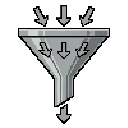
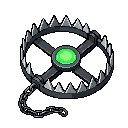
Refine flagship + lock house-style anchor; keep reference art local
- Chokepoint flagship: swap to the cartridge-style-anchored bear trap (cleaner
  single-colour outline, two-step cel shading, higher contrast, more retro feel
  and more cohesive with the cartridges). Caption already aligned to the trap.
- Spec: codify the cartridge's rendering traits as the canonical house-style
  anchor (section 1) and add the style-influences note (era/feel, originals only).
- Reference art: gitignore design/refs/ and untrack the prior committed refs so
  the copyrighted inspiration sheets stay local-only, never committed or published.

diff --git a/design/pixel-icon-spec.md b/design/pixel-icon-spec.md
@@ -17,6 +17,13 @@ in progress.**
 These rules are what make the set read as *one family* and become recognizable — the point of
 "original to the site, referenced by others."
 
+- **House-style anchor (match the cartridges):** every icon's *rendering* should match the section
+  cartridges in `assets/img/pixel/cartridges/` — **bold single-colour black outline**, simple
+  **two-step cel shading** (flat fill + one shadow + one highlight), **high contrast**, **crisp
+  chunky pixels**, clean readable forms. Prompt with these traits so the whole set stays one family.
+  (Match their *rendering*, not the cartridge label/shape.) Validated on the chokepoint flagship —
+  the anchored version read cleaner and more cohesive than free-form prompting, so this is the
+  default for this site and other projects.
 - **Canvas:** concept icons `32×32` native (export larger only if detail demands, in 16px steps).
   Cartridge stickers `32×24` (fills the wider label window). Boot mark `96×64`.
 - **Palette:** pull from `assets/css/tokens.css`. Max **3–4 colors per icon** + transparent bg.
@@ -90,3 +97,26 @@ concept pixel art → short explanation → real screenshot/evidence → caption
 4. Concepts: drop into a post via the include; verify in-context.
 5. Add the finished set to `CONTENT.md` as the published index (filename + one-line meaning) so the
    icons are reusable and citable — the documentation is what lets others reference them.
+
+---
+
+## 5. Style influences (era + feel, NOT characters)
+
+The house look is inspired by the classic 16-bit console + arcade sprite art the author grew up on
+(SNES platformers, early-90s fighters, run-and-gun action). We emulate the **qualities**, never the
+characters — every generated mark is an original (see the attack-chain creature: an original
+ball-and-chain enemy that evokes the era, not a copy of any specific game's sprite). Reference
+sheets, if kept, stay **local and gitignored** — they are mood reference, never reproduced and
+never published.
+
+Qualities to carry into original icons:
+- **Disciplined limited palette** — a few well-chosen hues per icon, strong value contrast.
+- **Bold 1–2px outline**, mostly single-colour, with clean cel shading (flat fill + one shadow +
+  one highlight). No gradients, no anti-aliasing.
+- **Confident, readable silhouette** — the shape reads instantly at small size.
+- **Expressive energy** — dynamic angles; for effect/FX icons, a bright cyan/white core fading to
+  the edge, like classic projectile and energy effects.
+- **Chunky, deliberate pixels** — chunkier reads more nostalgic than high-res-detailed.
+
+Hard rule: inspiration informs *style* (palette, line weight, shading, pose energy). It never
+authorises reproducing or tracing a specific copyrighted character or sprite.

diff --git a/_posts/2026-06-01-detection-chokepoints-where-to-start.md b/_posts/2026-06-01-detection-chokepoints-where-to-start.md
@@ -19,7 +19,7 @@ lose every time someone changes a filename.
 So I built something to fix where I start. It's called **Detection Chokepoints**, and it's live:
 [iimp0ster.github.io/detection-chokepoints](https://iimp0ster.github.io/detection-chokepoints/).
 
-{% include post-pixel-art.html src="/assets/img/pixel/concepts/chokepoint.png" alt="A funnel where many attack paths converge down to a single point" caption="A chokepoint: every variant funnels through the one step the attacker can't avoid." %}
+{% include post-pixel-art.html src="/assets/img/pixel/concepts/chokepoint.png" alt="A steel bear trap with a glowing trigger plate" caption="A chokepoint: the one step the attacker can't avoid — so it's where you catch them in the act." %}
 
 ## The lesson hiding in the last post
 
